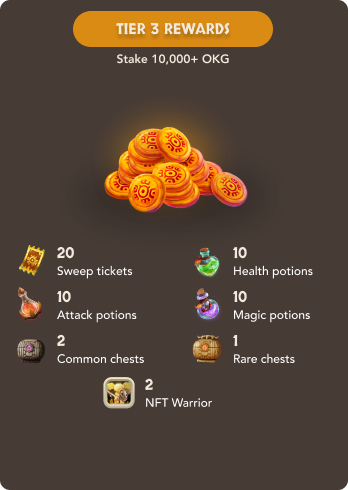
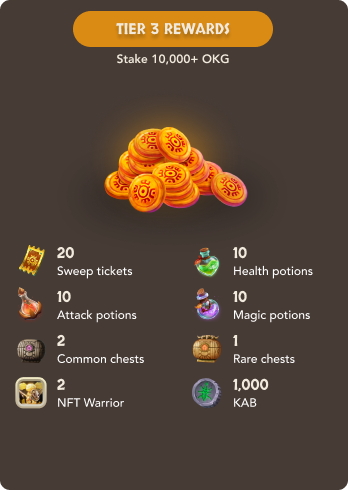
Update ui

Changed region(s): [[0.0287, 0.7653, 0.6322, 0.8571], [0.6609, 0.7653, 0.7759, 0.8265]]

diff --git a/src/components/header/header.js b/src/components/header/header.js
@@ -50,12 +50,15 @@ const HeaderItem = ({ url, href, state, ...props }) => {
   );
 };
 
+const DropdownItem = ({ text }) => <div className='font-avenir font-black text-white py-1'>{text}</div>;
+
 const Header = () => {
   const dispatch = useDispatch();
   const { isLoggedIn, address } = useSelector(profileSelector);
   const { isMobile } = useWindowDimensions();
   const [anchorEl, open, onOpen, onClose] = useAnchor();
   const [anchorElStaking, openStaking, onOpenStaking, onCloseStaking] = useAnchor();
+  const [anchorElGetOKG, openGetOKG, onOpenGetOKG, onCloseGetOKG] = useAnchor();
   const [openPopup, setOpenPopup] = useState(false);
 
   const handleClosePopop = () => {
@@ -103,12 +106,25 @@ const Header = () => {
                     <HeaderItem href='https://marketplace.ookeenga.io/' onClick={handleClosePopop}>
                       Marketplace
                     </HeaderItem>
-                    <HeaderItem
-                      href='https://pancakeswap.finance/swap?inputCurrency=0x55d398326f99059fF775485246999027B3197955&outputCurrency=0x7758a52c1Bb823d02878B67aD87B6bA37a0CDbF5'
-                      onClick={handleClosePopop}
-                    >
-                      Get OKG
-                    </HeaderItem>
+                    <Accordion className='text-2xl font-black bg-none bg-transparent shadow-none'>
+                      <AccordionSummary
+                        className='bg-none bg-transparent w-fit text-color-primary mx-auto'
+                        expandIcon={<ExpandMore className='ml-2 text-color-primary' />}
+                      >
+                        Get OKG
+                      </AccordionSummary>
+                      <AccordionDetails className='bg-none bg-transparent'>
+                        <HeaderItem
+                          href='https://pancakeswap.finance/swap?inputCurrency=0x55d398326f99059fF775485246999027B3197955&outputCurrency=0x7758a52c1Bb823d02878B67aD87B6bA37a0CDbF5'
+                          onClick={handleClosePopop}
+                        >
+                          Pancake
+                        </HeaderItem>
+                        <HeaderItem href='https://www.bybit.com/en-US/trade/spot/OKG/USDT' onClick={handleClosePopop}>
+                          Bybit
+                        </HeaderItem>
+                      </AccordionDetails>
+                    </Accordion>
                     {/* <HeaderItem url={publicRoute.leaderBoard.path} onClick={handleClosePopop}>
                       Leaderboard
                     </HeaderItem> */}
@@ -167,20 +183,58 @@ const Header = () => {
                     window.open('https://staking.ookeenga.io/stake', '_blank');
                   }}
                 >
-                  <div className='font-avenir font-black text-white py-1'>Staking Pool 1</div>
+                  <DropdownItem text='Staking Pool 1' />
                 </MenuItem>
                 <MenuItem
                   onClick={() => {
                     window.location.reload();
                   }}
                 >
-                  <div className='font-avenir font-black text-white py-1'>Staking Pool 2</div>
+                  <DropdownItem text='Staking Pool 2' />
                 </MenuItem>
               </Menu>
               <HeaderItem href='https://marketplace.ookeenga.io/'>Marketplace</HeaderItem>
-              <HeaderItem href='https://pancakeswap.finance/swap?inputCurrency=0x55d398326f99059fF775485246999027B3197955&outputCurrency=0x7758a52c1Bb823d02878B67aD87B6bA37a0CDbF5'>
-                Get OKG
+              <HeaderItem onClick={onOpenGetOKG}>
+                Get OKG <ArrowDropDown />
               </HeaderItem>
+              <Menu
+                anchorEl={anchorElGetOKG}
+                PaperProps={{
+                  sx: {
+                    overflow: 'visible',
+                    backgroundColor: '#423429',
+                    border: '1px solid #B7A284',
+                    marginTop: 0,
+                    width: 153,
+                    '&:before': {
+                      display: 'none',
+                    },
+                  },
+                }}
+                transformOrigin={{ horizontal: 'left', vertical: 'top' }}
+                anchorOrigin={{ horizontal: 'left', vertical: 'bottom' }}
+                open={openGetOKG}
+                onClose={onCloseGetOKG}
+                onClick={onCloseGetOKG}
+              >
+                <MenuItem
+                  onClick={() => {
+                    window.open(
+                      'https://pancakeswap.finance/swap?inputCurrency=0x55d398326f99059fF775485246999027B3197955&outputCurrency=0x7758a52c1Bb823d02878B67aD87B6bA37a0CDbF5',
+                      '_blank',
+                    );
+                  }}
+                >
+                  <DropdownItem text='Pancake' />
+                </MenuItem>
+                <MenuItem
+                  onClick={() => {
+                    window.open('https://www.bybit.com/en-US/trade/spot/OKG/USDT', '_blank');
+                  }}
+                >
+                  <DropdownItem text='Bybit' />
+                </MenuItem>
+              </Menu>
               {/* <HeaderItem url={publicRoute.leaderBoard.path}>Leaderboard</HeaderItem> */}
             </MenuList>
             <div className='flex-1' />

diff --git a/src/components/stake/Stake.js b/src/components/stake/Stake.js
@@ -1,13 +1,22 @@
 import React, { useEffect, useState } from 'react';
 import './Stake.css';
 import BigNumber from 'bignumber.js';
-import { TextField, styled, Button, Dialog, Divider, CircularProgress } from '@mui/material';
+import {
+  TextField,
+  styled,
+  Button,
+  Dialog,
+  Divider,
+  CircularProgress,
+  Tooltip,
+  ClickAwayListener,
+} from '@mui/material';
 import { Controller, useForm } from 'react-hook-form';
 import DesignButton from '../common/DesignButton';
 import { useSnackbar } from 'notistack';
 import CloseButton from '../common/CloseButton';
 import { useMutation } from 'react-query';
-import { Close, Done, WarningRounded } from '@mui/icons-material';
+import { Close, Done, InfoOutlined, WarningRounded } from '@mui/icons-material';
 import { poolStatuses, tierList } from '../StakeView/StakeView';
 import { useSelector } from 'react-redux';
 import { profileSelector } from '../../reducers/profile';
@@ -17,7 +26,9 @@ import { updateInfosProfileService } from '../../services/profile';
 import { getContractInfos } from '../../services/contract';
 import { stakingContract, tokenNPO } from '../../contractHandler/contractHandler';
 import useWindowDimensions from '../../hooks/useWindowDimensions';
-import { DateTime } from 'luxon';
+import { DateTime, Duration } from 'luxon';
+import { maturityRewardAPR } from '../../utils/common';
+import { useMemo } from 'react';
 
 const AmountField = styled(TextField)`
   border-radius: 8px;
@@ -96,6 +107,48 @@ const GroupInfo = ({ title, value, border }) => (
   </div>
 );
 
+const AlterTooltip = ({ isClickable }) => {
+  const [openTooltip, setOpenTooltip] = useState(false);
+
+  const handleTooltipClose = () => {
+    setOpenTooltip(false);
+  };
+
+  const handleTooltipOpen = () => {
+    setOpenTooltip(true);
+  };
+
+  return (
+    <ClickAwayListener onClickAway={handleTooltipClose}>
+      <Tooltip
+        {...(isClickable
+          ? {
+              PopperProps: {
+                disablePortal: true,
+              },
+              onClose: handleTooltipClose,
+              open: openTooltip,
+              disableFocusListener: true,
+              disableHoverListener: true,
+              disableTouchListener: true,
+            }
+          : {})}
+        title={
+          <div className='text-black font-semibold font-avenir' style={{ maxWidth: 220, fontSize: 15 }}>
+            The estimated rewards calculated based on the maturity APR. In case you unstake early, your rewards should
+            be lower than estimated.
+          </div>
+        }
+        placement={`${isClickable ? 'bottom' : 'right-start'}`}
+      >
+        <div {...(isClickable ? { onClick: handleTooltipOpen } : {})}>
+          <InfoOutlined className='text-xs md:text-base' />
+        </div>
+      </Tooltip>
+    </ClickAwayListener>
+  );
+};
+
 const Stake = ({ poolStatus, id }) => {
   const { isMobile } = useWindowDimensions();
   const { isLoggedIn, address, balance, yourStakedBalance } = useSelector(profileSelector);
@@ -106,6 +159,10 @@ const Stake = ({ poolStatus, id }) => {
   const [openPopupStake, setOpenPopupStake] = useState(false);
   const [openPopupUnstake, setOpenPopupUnstake] = useState(false);
   const [openPopupUnstakeSuccess, setOpenPopupUnstakeSuccess] = useState(false);
+  const daysTillMaturity = useMemo(
+    () => Duration.fromObject({ seconds: Number(props.maturityAt) - Number(props.stakingEnds) }).toFormat('d'),
+    [props.maturityAt, props.stakingEnds],
+  );
 
   const {
     mutate: approve,
@@ -209,7 +266,7 @@ const Stake = ({ poolStatus, id }) => {
   };
 
   const getOKGReward = () => {
-    return (process.env.REACT_APP_TOTAL_REWARD / (props.stakedTotal / 1e18)) * (yourStakedBalance * 1);
+    return (maturityRewardAPR / 100 / (365 * Number(daysTillMaturity))) * (yourStakedBalance * 1);
   };
 
   const ButtonLogin = () => (
@@ -370,7 +427,7 @@ const Stake = ({ poolStatus, id }) => {
           )}
           {(poolStatus === poolStatuses[2] || poolStatus === poolStatuses[3]) && (
             <>
-              <div className='grid grid-cols-3 gap-3 md:gap-5 mb-4'>
+              <div className='grid grid-cols-3 gap-3 mb-4'>
                 <GroupInfo
                   title='Staked Amount (OKG)'
                   value={
@@ -379,7 +436,11 @@ const Stake = ({ poolStatus, id }) => {
                   border
                 />
                 <GroupInfo
-                  title='Pending Rewards (OKG)'
+                  title={
+                    <div className='flex gap-0.5 items-center'>
+                      Est. Maturity Rewards {isMobile ? <AlterTooltip isClickable /> : <AlterTooltip />}
+                    </div>
+                  }
                   value={
                     Number(getOKGReward()) === 0 || isNaN(Number(getOKGReward())) || !isLoggedIn
                       ? '-'

diff --git a/src/components/StakeView/StakeView.js b/src/components/StakeView/StakeView.js
@@ -33,7 +33,7 @@ export const tierList = [
     code: 'tier-2',
     name: 'TIER 2',
     reward: 5000,
-    image: '/assets/stake2/images/bonus-tier.png',
+    image: '/assets/stake2/images/bonus-tier-2.png',
     imageMobile: '/assets/stake2/images/bonus-tier-2-mobile.png',
   },
   {
@@ -134,29 +134,26 @@ const accordContents = [
     ),
   },
   {
-    title: '2. How can I receive the OKG token rewards?',
+    title: '2. How can I received token rewards?',
     description: (
       <div>
         Rewards will be calculated based on your staked amount, and is automatically added when you unstake your token{' '}
         <span className='font-black'>at the expiry time.</span>
         <br />
         <br />
-        Your OKG token rewards = Your Staked Amount * APR / 365
-        <br />
-        <br />
-        APR depends on the total amount of investment in the pool.
+        OKG token rewards = your staked amount * APR * days staked/365
       </div>
     ),
   },
   {
-    title: '3. How can I receive the in-game item and NFT item rewards?',
+    title: '3. How can I receive the in-game & NFT item rewards?',
     description: (
       <div>
         The in-game item rewards will be transferred into your game account. You should link your wallet with this game
-        account to receive these in-game items after the game is launched.
+        account to receive these in-game items.
         <br />
         <br />
-        The NFT item rewards will be airdropped into your wallet after the game is launched.
+        The NFT item & KAB token rewards will be airdropped into your wallet.
         <br />
         <br />
         The detailed reward schedule will be announced on Ookeenga social media channel.
@@ -430,7 +427,7 @@ const StakeView = () => {
             BONUS REWARDS
           </div>
           <div className='text-center mb-3 md:mb-4 text-xs md:text-base'>
-            Stake OKG Token to receive Genesis Cocoons, NFT Heroes & valuable ingame items
+            Stake OKG Token to receive Genesis Cocoons, NFT Heroes, KAB token & valuable ingame items
           </div>
           <div className='relative mb-12'>
             <img src={isMobile ? imageTier.imageMobile : imageTier.image} alt={activeTier} className='w-full' />

diff --git a/src/components/poolInfor/poolInfor.js b/src/components/poolInfor/poolInfor.js
@@ -5,6 +5,7 @@ import { DateTime, Duration } from 'luxon';
 import { useSelector } from 'react-redux';
 import { contractInfosSelector } from '../../reducers/contractInfos';
 import useWindowDimensions from '../../hooks/useWindowDimensions';
+import { earlyRewardAPR, maturityRewardAPR } from '../../utils/common';
 
 const GroupInfo = ({ title, value, icon, isCenterDown, isCenterUp }) => (
   <div className='text-xs md:text-[15px] flex flex-col gap-1'>
@@ -157,7 +158,7 @@ const PoolInfor = () => {
           icon={<Lock className='text-xs md:text-[15px]' />}
           isCenterDown
         />
-        <GroupAPR value='15' title='Early reward APR' />
+        <GroupAPR value={earlyRewardAPR} title='Early reward APR' />
       </div>
     ),
     [isMobile, lockDays],
@@ -172,7 +173,7 @@ const PoolInfor = () => {
           icon={<Lock className='text-xs md:text-[15px]' />}
           isCenterDown
         />
-        <GroupAPR value='30' title='Maturity reward APR' />
+        <GroupAPR value={maturityRewardAPR} title='Maturity reward APR' />
       </div>
     ),
     [daysTillMaturity],

diff --git a/src/utils/common.js b/src/utils/common.js
@@ -8,3 +8,7 @@ export const getBase64 = (file, callback) => {
   reader.addEventListener('load', () => callback(reader.result));
   reader.readAsDataURL(file);
 };
+
+export const earlyRewardAPR = 15;
+
+export const maturityRewardAPR = 30;
